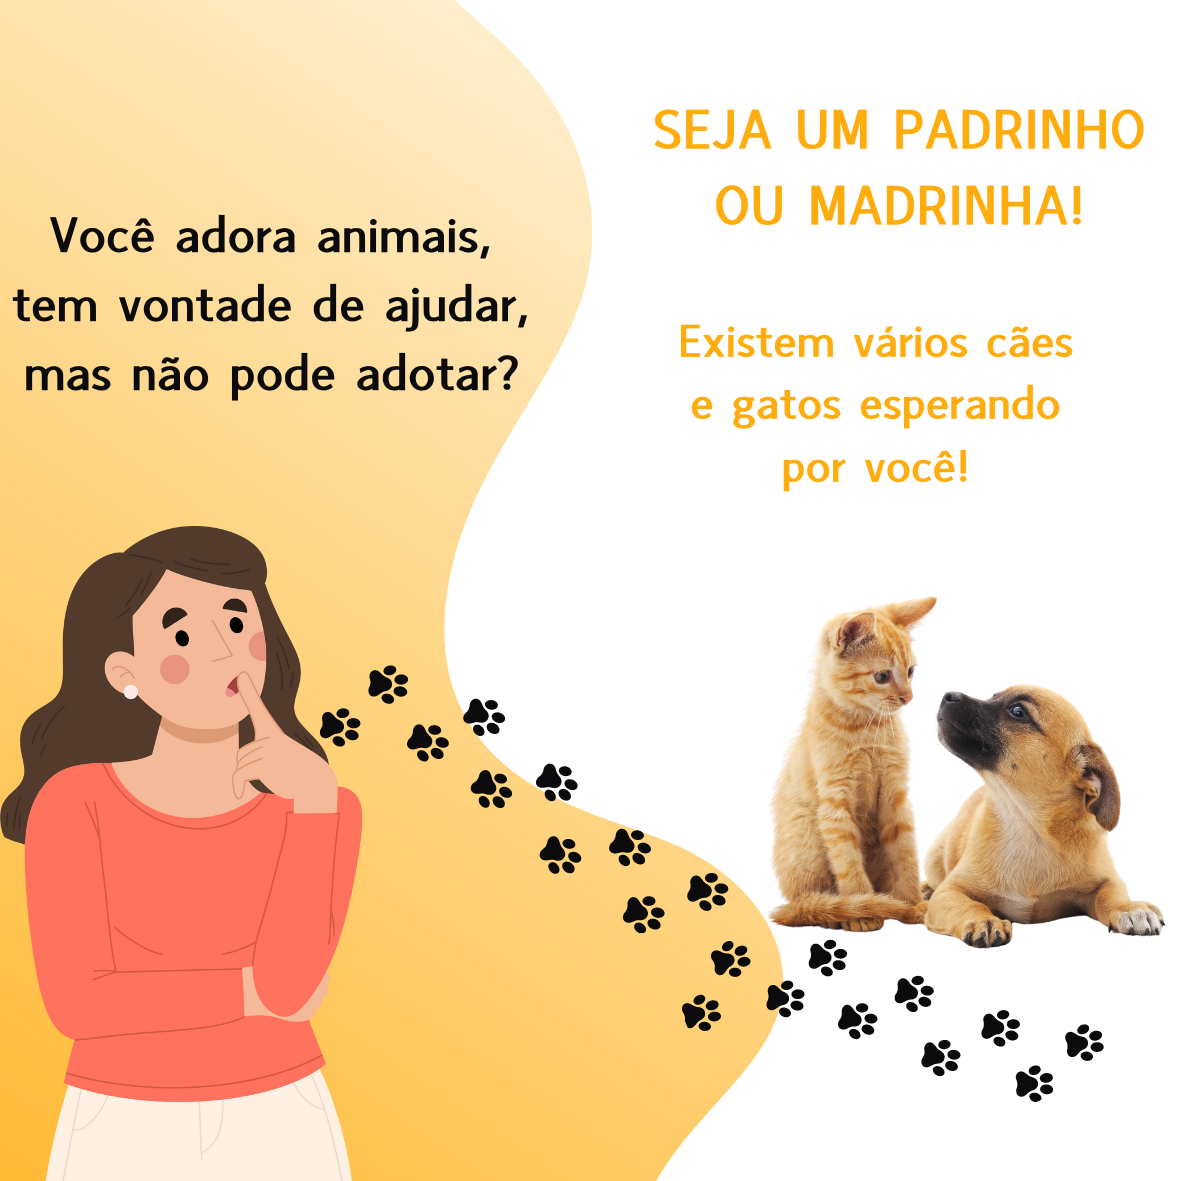
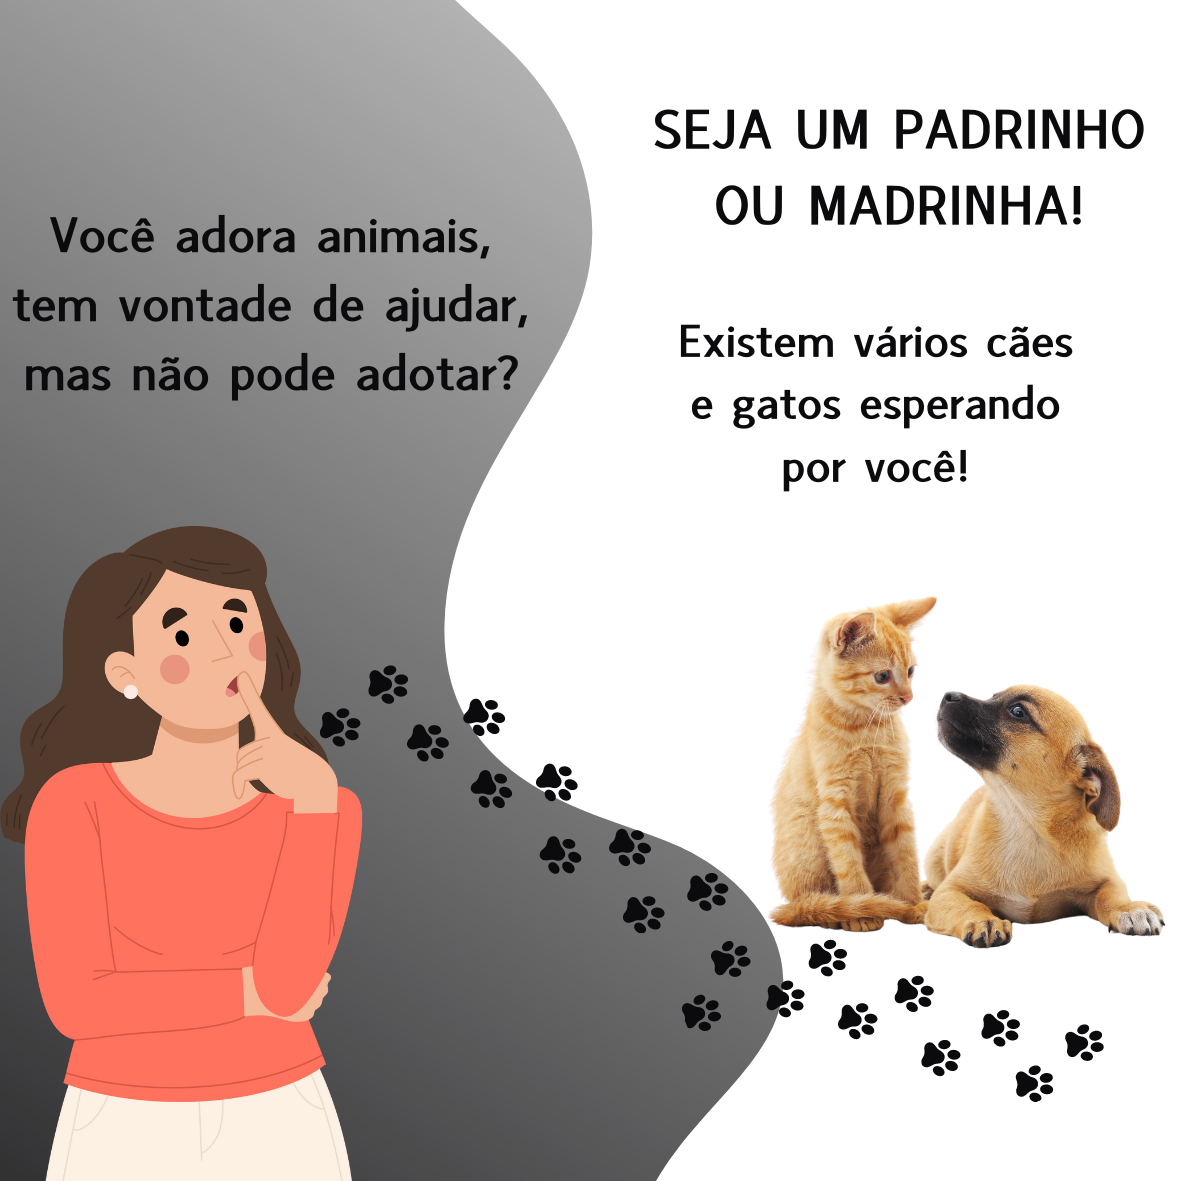
Atualizações feitas; adicionei imagem, atualizei a pag.comoajudar, adicionei tres H5 e tres paragrafos <p no CSS.

diff --git a/Comoajudar.html b/Comoajudar.html
@@ -123,7 +123,7 @@
                 Percebe-se que esse tema, cada vez mais, está ganhando mais defensores e protetores dos animais que
                 vestem esta causa para o bem estar do animal.<br> <br> Abandonar é matar lentamente.
                 Muitos animais são abandonados e maltratados todos os anos, ajude a reverter essa realidade, não compre,
-                Adote!</p>
+                Adote!</p><br><br><br><br><br><br><br>
         </section>
         <!-- Além de ajudar a nossa causa, você também pode ajudar muitos animais a saírem de
                 situações de maus tratos e abandonos!!! <br><br> Caso você presencie maus-tratos a animais de quaisquer espécies –
@@ -140,18 +140,23 @@
                         <img id="imagemprojecao" src="img/imgApadrinhamento.png">
                     </figure>
 
-                    <p id="textocomoajudar3">Segundo a Associação Brasileira da Indústria de Produtos para Animais de
-                        Estimação,
-                        o Brasil é o segundo país do mundo em população de cães e gatos, com um total de 55 milhões.
-                        Acontece
-                        que muitos desses animaizinhos são abandonados nas ruas e como muitos deles não são castrados a
-                        população cresce muito rápido. <br> Por isso a adoção é muito importante que além de tiralos da
-                        rua,
-                        conia cruel que trata os animais como mercadorias. Muitos criadouros
-                        não priorizam o bem-esta
-                    </p> <br><br>
+                    <h5 class="tituloapadrinhamento"> POR QUE APADRINHAR ?</h5>
+                    <P id="textoapadrinhamento"> Apadrinhar um animal é uma ação que vai além de um simples ato de
+                        bondade. Esse gesto assegura que o pet tenha acesso a uma alimentação de qualidade, cuidados
+                        veterinários adequados e um abrigo seguro. Ao contribuir para essas necessidades essenciais,
+                        você está investindo diretamente no bem-estar e na qualidade de vida do animal, garantindo que
+                        ele receba todo o suporte necessário para viver de forma saudável e feliz até que encontre um
+                        novo lar.</P><br>
 
+                    <h5 class="tituloapadrinhamento2"> QUAL VALOR MÍNIMO PARA VIRAR PADRINHO ? </h5>
+                    <P id="textoapadrinhamento2"> Qualquer contribuição faz a diferença! Doe o quanto puder e ajude a
+                        cuidar de um bichinho especial.
+                    </P><br>
 
+                    <h5 class="tituloapadrinhamento3"> TEM QUE DOAR TODO MÊS ? </h5>
+                    <p id="textoapadrinhamento3"> Essa é a ideia, pois assim você garante que seu afilhado tenha tudo o que precisa para viver bem.</p>
+
+                    
                     <!-- <figure> -->
 
                     <!-- <img id="imagemmaustratos" src="img/PAPEL DE PAREDE.jpg">  -->
@@ -162,19 +167,19 @@
 
                 <div class="informação-principal2">
                     <div class="informação-container">
-                        <h2 class="titulo"> • + 13.000 </h2><br>
-                        <p class="textoprincipal"> Seguidores no Instagram</p> <br><br><br><br><br><br>
+                        <h2 class="titulo1">  + 13.000 </h2><br>
+                        <p class="textoprincipal1"> Seguidores no Instagram</p> <br><br><br><br><br><br>
 
-                        <h2 class="titulo"> • 55 </h2><br>
-                        < <p class="textoprincipal"> Cães e gatos sob a nossa responsabilidade </p> <br><br>
+                        <h2 class="titulo1"> + 55 </h2><br>
+                        < <p class="textoprincipal1"> Cães e gatos sob a nossa responsabilidade </p> <br><br>
                     </div>
                     <div class="informação-container2">
-                        <h2 class="titulo"> • + 350 </h2><br><br>
-                        <p class="textoprincipal"> Animais resgatados das ruas e de maus-tratos </p>
+                        <h2 class="titulo2">  + 350 </h2><br><br>
+                        <p class="textoprincipal2"> Animais resgatados das ruas e de maus-tratos </p>
                         <br><br><br><br><br><br>
 
-                        <h2 class="titulo"> • + 300 </h2><br><br>
-                        <p class="textoprincipal"> Cães, gatos e coelhos adotados por famílias responsáveis </p>
+                        <h2 class="titulo2">  + 300 </h2><br><br>
+                        <p class="textoprincipal2"> Cães, gatos e coelhos adotados por famílias responsáveis </p>
                         <br><br>
                     </div>
                 </div>

diff --git a/css/styles.css b/css/styles.css
@@ -35,29 +35,50 @@ html {
     width: 70%;
     height: 70%;
 }
-
-.titulo {
+/* editado geovana */
+.titulo1 {
     font-size: 25px;
-    color: rgb(12, 8, 8);
+    color: rgb(15, 15, 15);;
     font-weight: bold;
     font-family: 'Pacifico', cursive;
-    ;
+    
+    
+}
+/* editado geovana */
+.titulo2 {
+    font-size: 25px;
+    color: rgb(15, 15, 15);;
+    font-weight: bold;
+    font-family: 'Pacifico', cursive;
+    
 }
 
 .corfooter {
-    color: rgb(255, 255, 255);
+    color: rgb(15, 15, 15);;
     font-family: 'Open Sans', sans-serif;
     font-size: 150%;
 
 }
 
-.textoprincipal {
+/* editado geovana */
+.textoprincipal1 {
     font-size: 20px;
     font-family: 'Open Sans', sans-serif;
-    color: rgb(24, 24, 24);
+    color: rgb(15, 15, 15);
+    font-weight: 600;
+    text-align:justify;
+}
+
+/* editado geovana */
+.textoprincipal2 {
+    font-size: 20px;
+    font-family: 'Open Sans', sans-serif;
+    color: rgb(15, 15, 15);
     font-weight: 600;
     text-align: justify;
+    
 }
+
 
 .wrapper {
     background-image: url("../img/fundo.png");
@@ -403,43 +424,71 @@ header .dropdown-toggle::after {
 
 }
 
-#textocomoajudar2 {
-    font-size: 20px;
+/* editado geovana */
+#textoapadrinhamento {
+
+    text-align: justify;
+    font-size: 17px;
     font-family: 'Open Sans', sans-serif;
-    color: rgb(12, 8, 8);
-    display: inline-block;
-    width: 50%;
+    color: rgb(24, 24, 24);
     display: flex;
+    width: 50%;
     margin: 2%;
     font-weight: 600;
-    text-align: justify;
-    margin-top: 20px;
+
+
 }
 
-#textocomoajudar3 {
-    font-size: 20px;
+/* editado geovana */
+#textoapadrinhamento2 {
+
+    text-align: justify;
+    font-size: 17px;
     font-family: 'Open Sans', sans-serif;
-    color: rgb(12, 8, 8);
-    display: inline-block;
+    color: rgb(24, 24, 24);
     display: flex;
     width: 50%;
     margin: 2%;
-    margin-top: 200px;
     font-weight: 600;
-    text-align: justify;
+
+
 }
+ /* editado geovana */
+#textoapadrinhamento3 {
+
+    text-align: justify;
+    font-size: 17px;
+    font-family: 'Open Sans', sans-serif;
+    color: rgb(24, 24, 24);
+    display: flex;
+    width: 50%;
+    margin: 2%;
+    font-weight: 600;
+
+
+}
+
+/* editado geovana */
+.tituloapadrinhamento {
+
+    margin-left: 17%;
+}
+
+/* editado geovana */
+.tituloapadrinhamento2 {
+
+    margin-left: 10%;
+}
+
+/* editado geovana */
+.tituloapadrinhamento3 {
+
+    margin-left: 16%;
+}
+
 
 @media(max-width:1300px) {
     #textocomoajudar {
-        font-size: 18px;
-    }
-
-    #textocomoajudar2 {
-        font-size: 18px;
-
-    }
-
-    #textocomoajudar3 {
         font-size: 18px;
     }
 
@@ -452,13 +501,6 @@ header .dropdown-toggle::after {
 
     }
 
-    #textocomoajudar2 {
-        font-size: 15px;
-    }
-
-    #textocomoajudar3 {
-        font-size: 15px;
-    }
 
 }
 
@@ -498,19 +540,6 @@ header .dropdown-toggle::after {
     #textocomoajudar {
         margin-right: auto;
         margin-left: auto;
-        width: 80%;
-    }
-
-    #textocomoajudar2 {
-        margin-right: auto;
-        margin-left: auto;
-        width: 80%;
-    }
-
-    #textocomoajudar3 {
-        margin-right: auto;
-        margin-left: auto;
-        margin-top: 0;
         width: 80%;
     }
 
@@ -601,6 +630,7 @@ header .dropdown-toggle::after {
 .informação-container {
     font-size: 2px;
     padding: 40px;
+    margin-left: 0%;
 }
 
 .informação-container2 {
